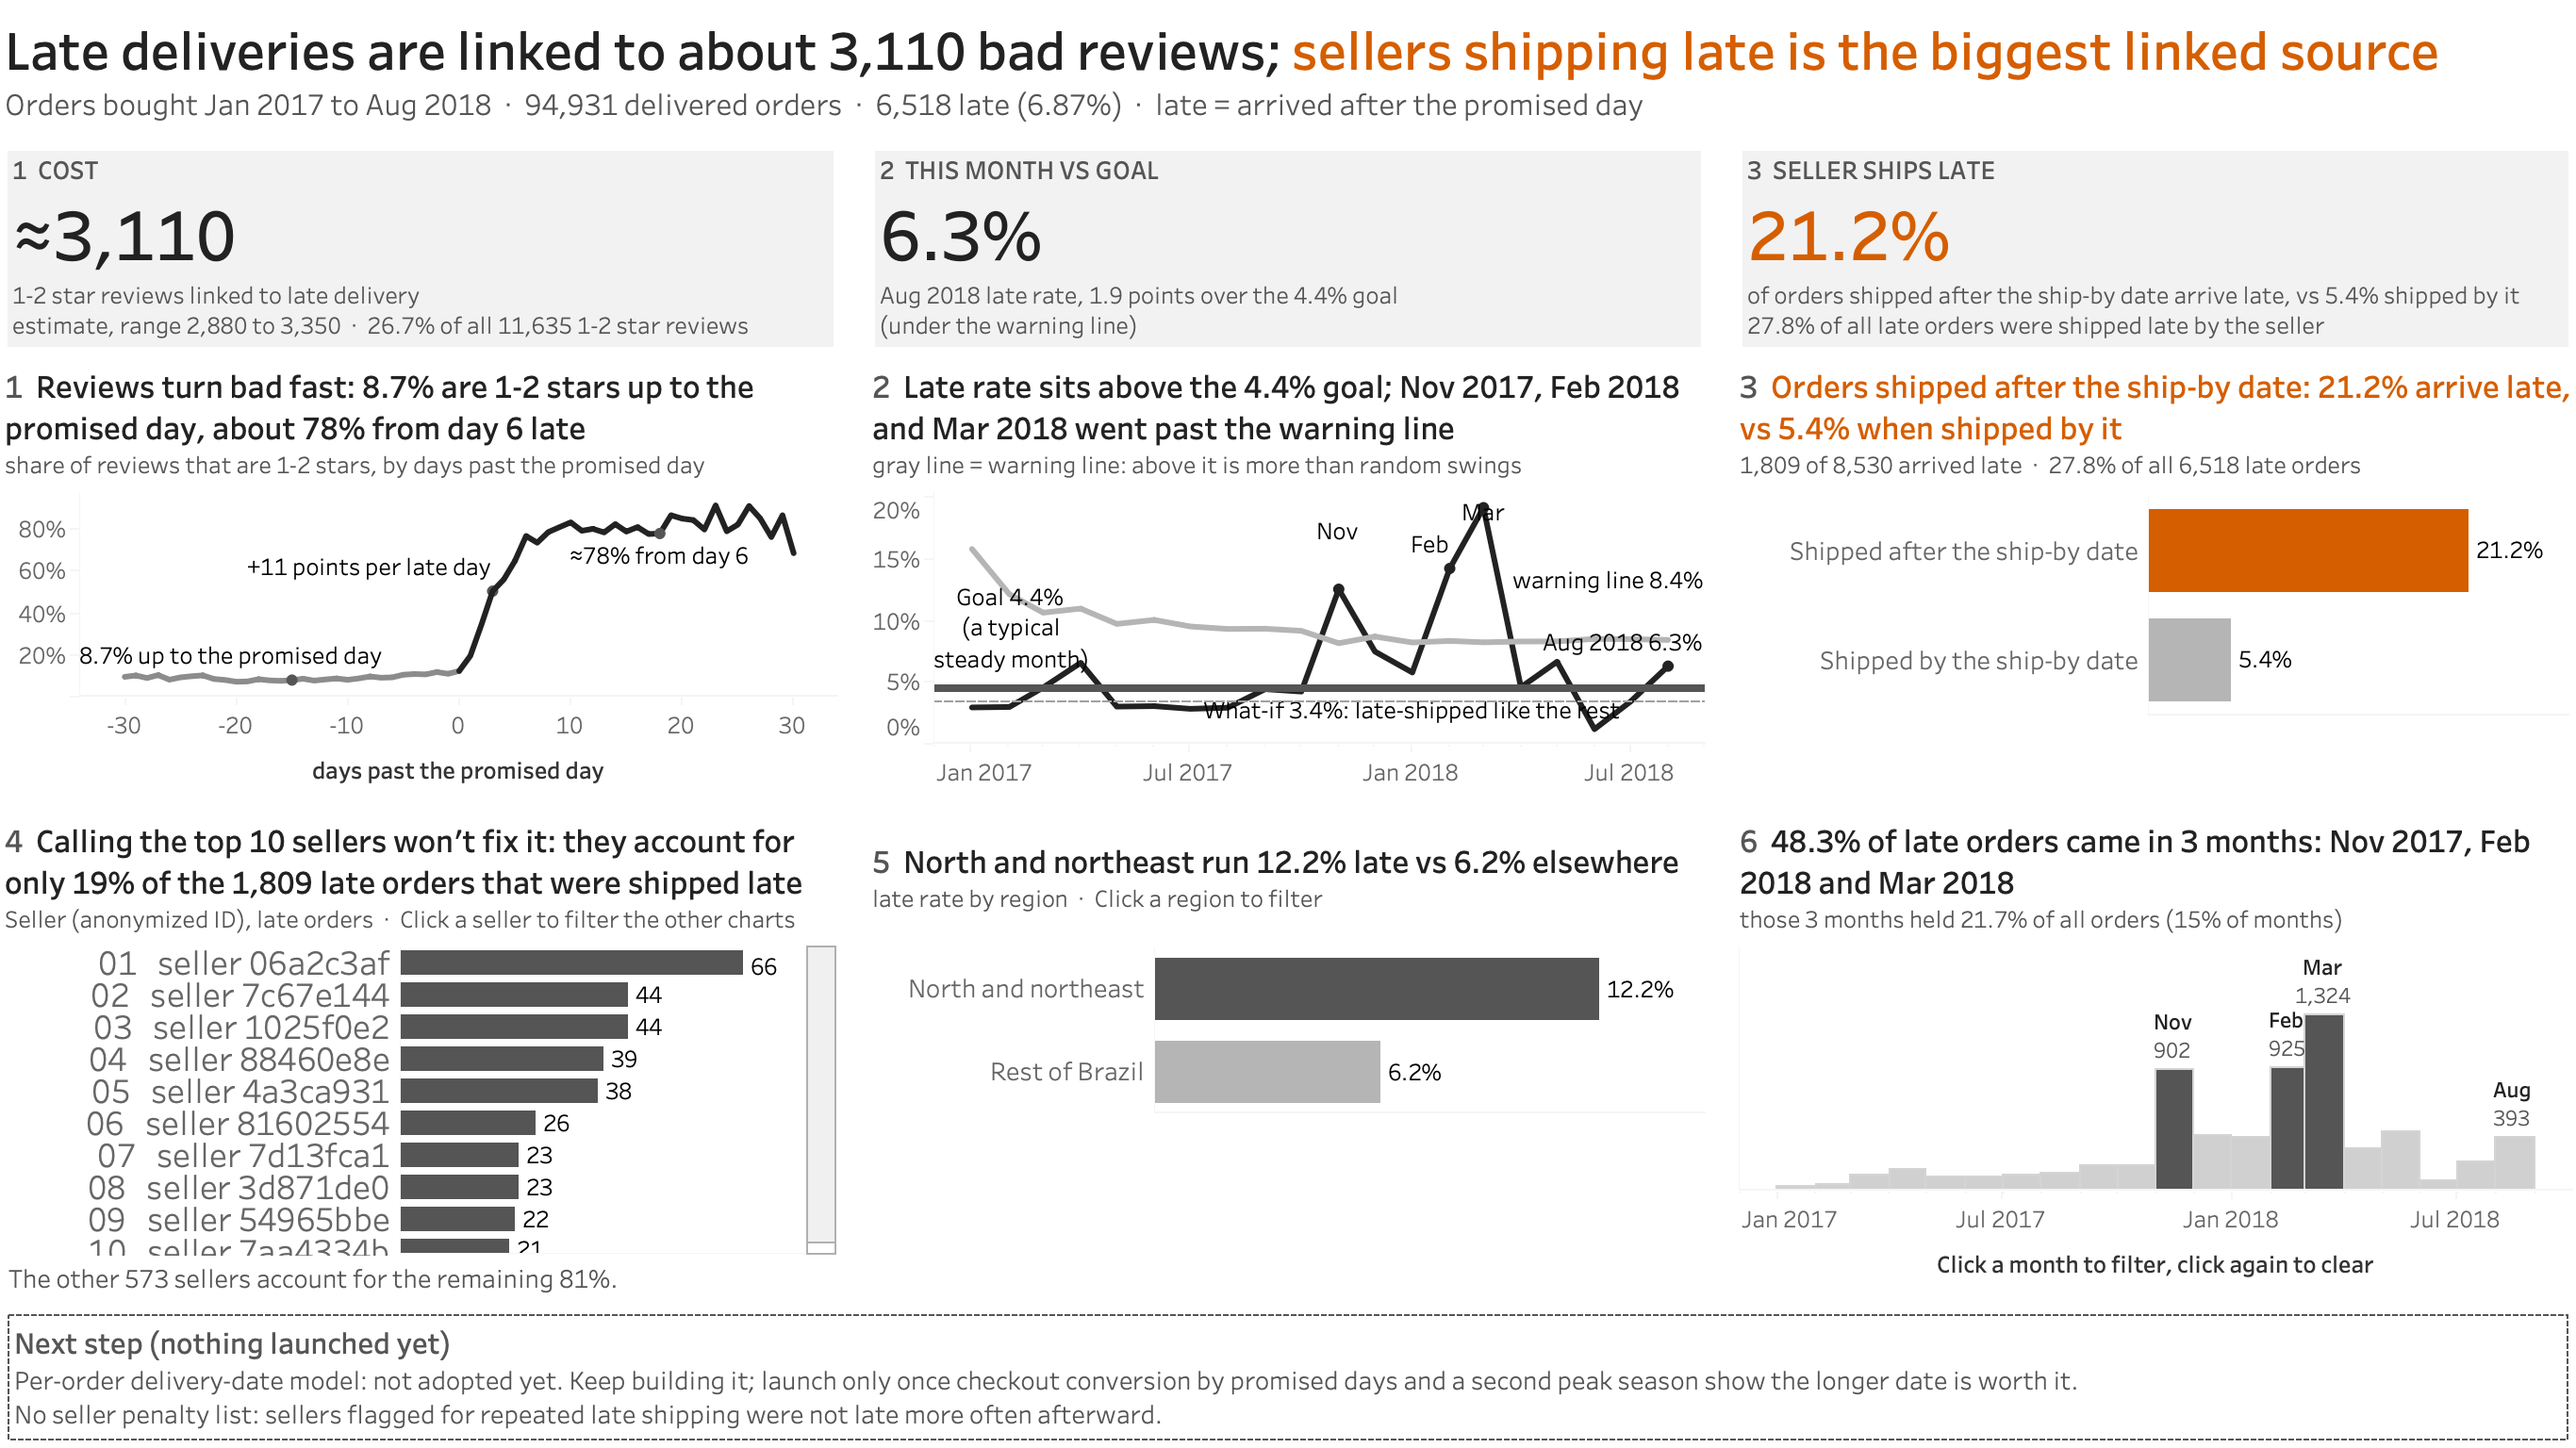
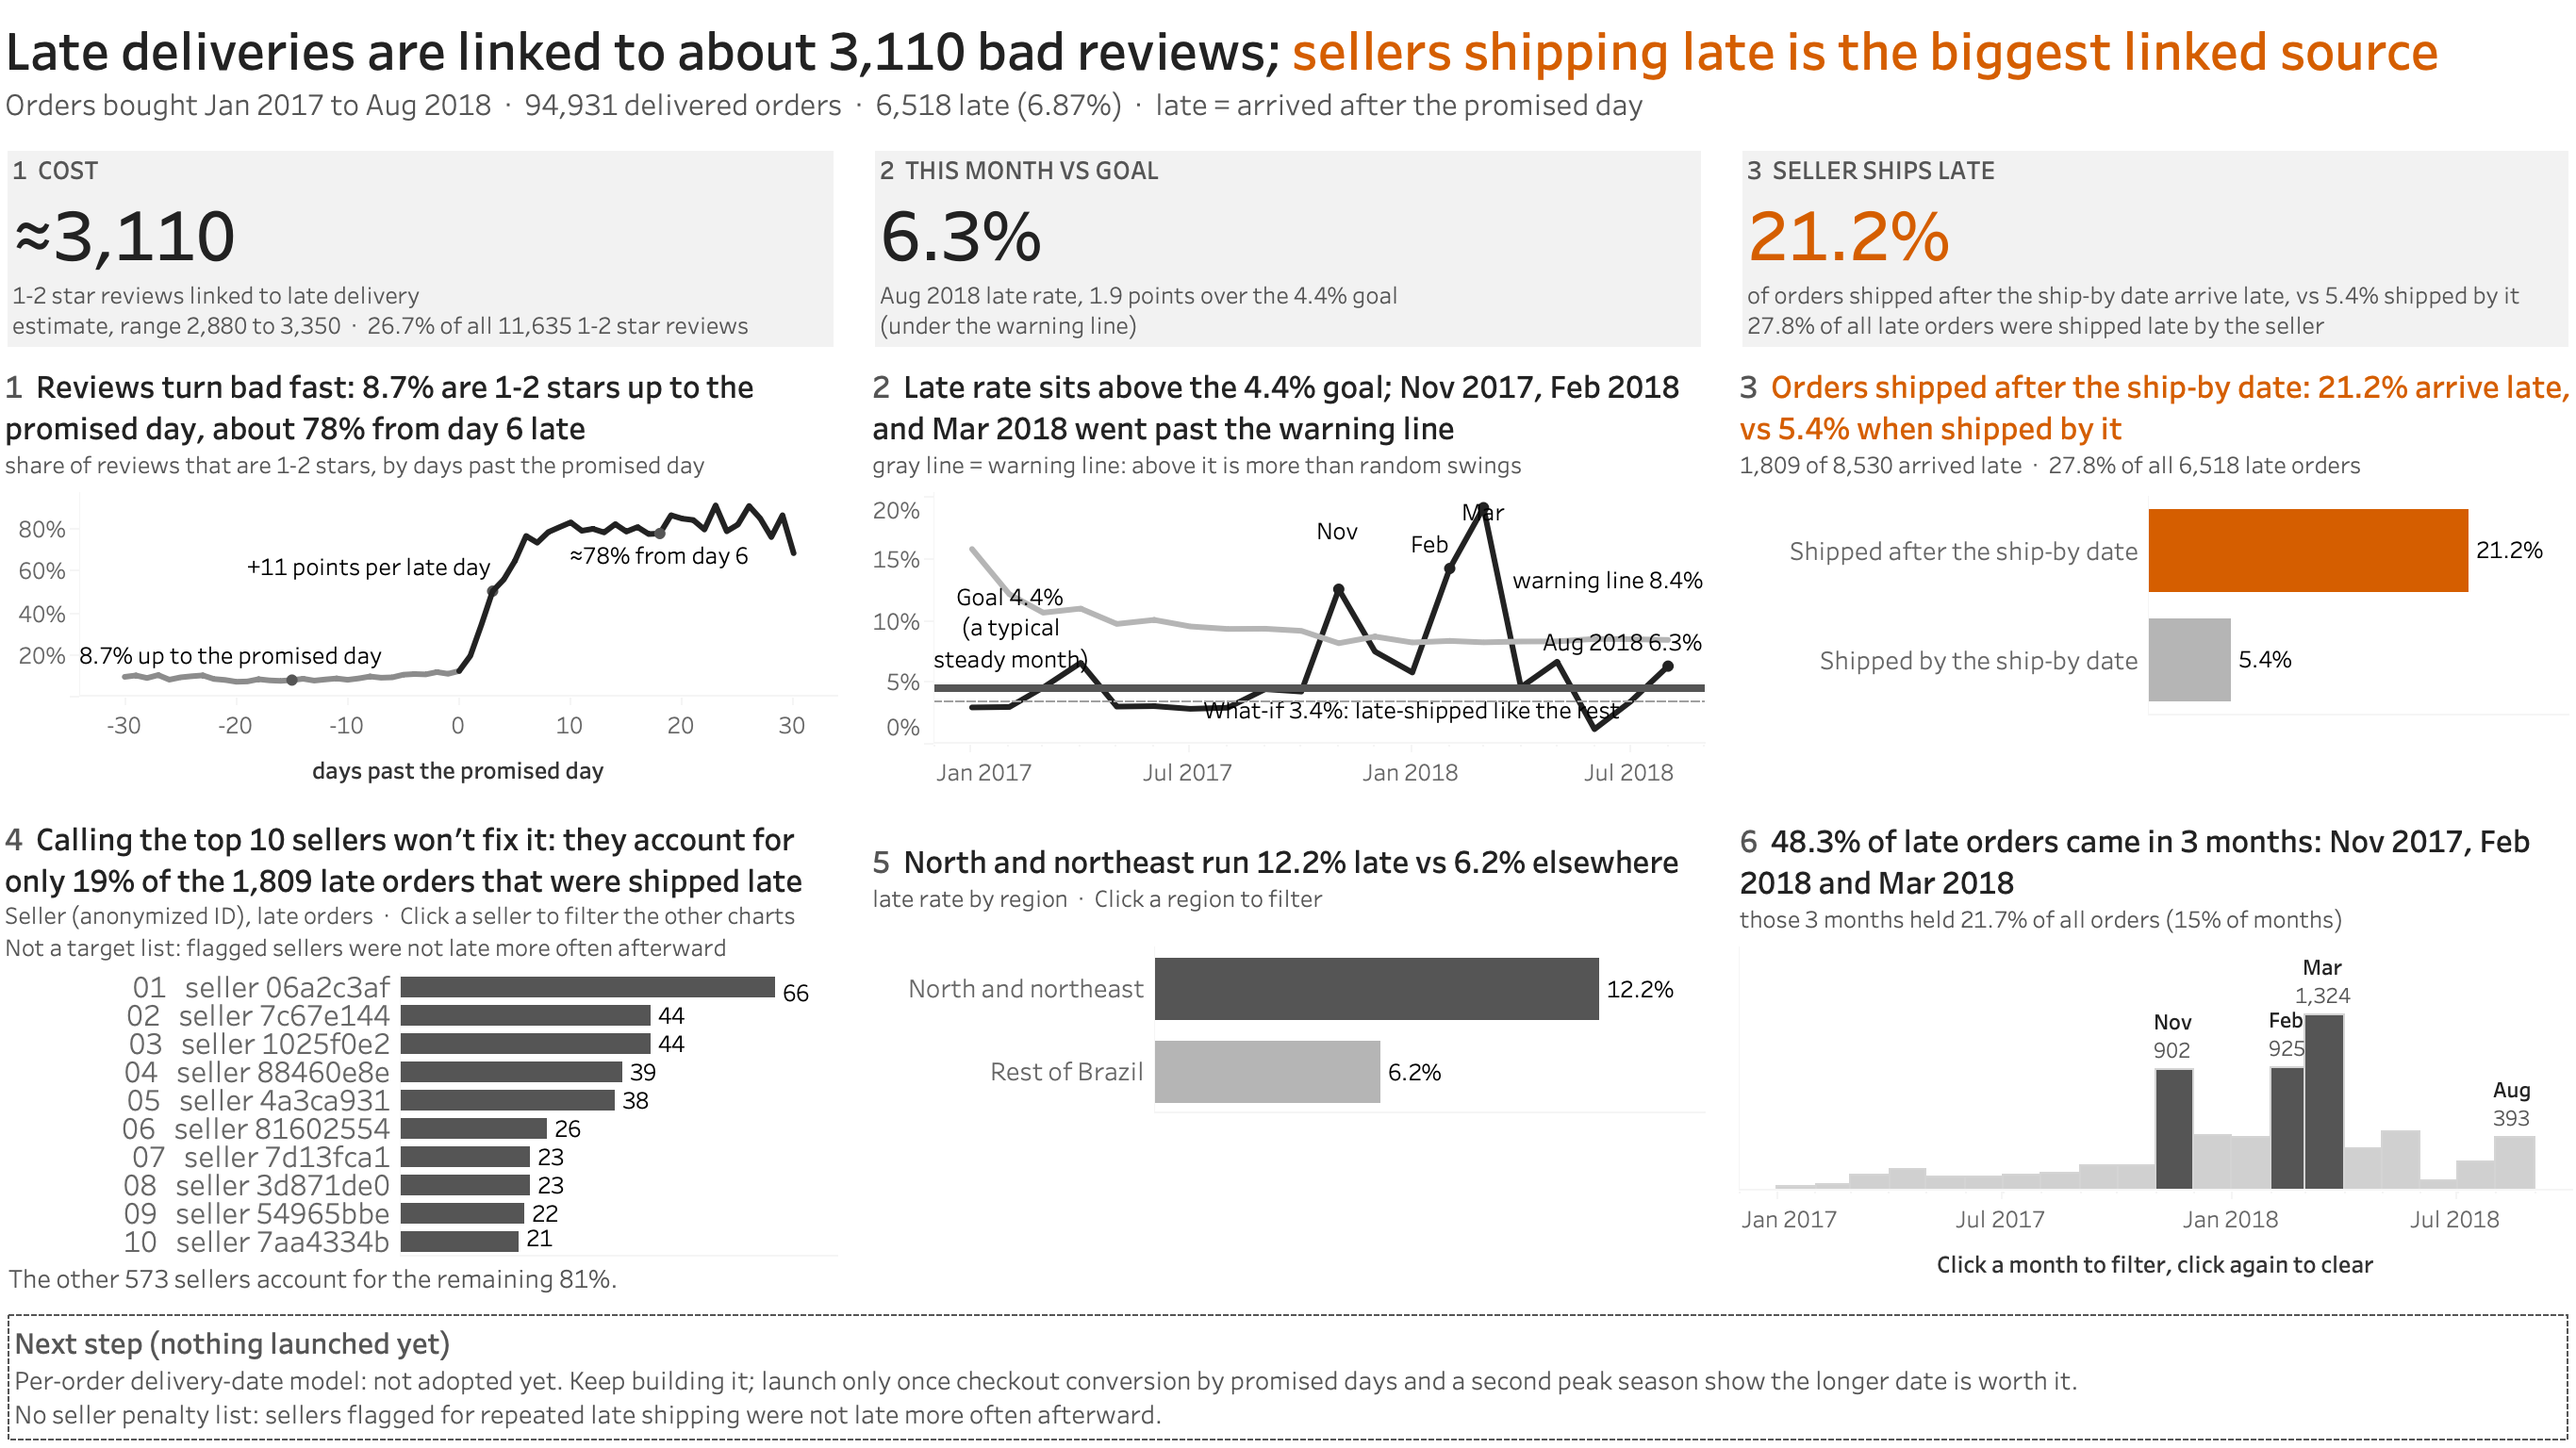
Re-export dashboard images with the reworded and added seller notes
- v4_six_chart.png, docs/img/dashboard.png and B1_v2.png re-exported from Tableau Desktop from the
  current workbooks.
- B1: seller rows 15 px (font 11) so the one-line note fits and all 10 seller rows show (the 10th
  was cut off before).
- Tableau README: the note that the images still needed an export is removed; the 10th-row issue
  is dropped from the remaining B1 problems.

Changed region(s): [[0.0, 0.5625, 0.3111, 0.875]]

diff --git a/dashboard/tableau/gen_workbook.py b/dashboard/tableau/gen_workbook.py
@@ -339,7 +339,7 @@ ows('Handoff',ORD,[('has_handoff','nk')],mark='Bar',rows=ORD.q('handoff_group','
     tip=['Orders: ',('order_code','cnt'),'\nLate orders: ',('late_n','sum'),'\nLate rate: ',('late','avg')])
 # ---- 4 who: sellers (top 10 overall)
 ows('Sellers',ORD,[('is_top10','nk')],mark='Bar',rows=ORD.q('seller_label','nk'),cols=ORD.q('lalh_n','sum'),text=('lalh_n','sum'),pane_color=MID,
-    hide_axes=[('lalh_n','sum')],extra_uses=[('lalh_n','sum'),('seller_label','nk')],filt=fmember(ORD,'is_top10','true'),header_w=(('seller_label','nk'),210),header_font=(13,'bold'),cell_rules=[('cell','height',17,ORD.q('seller_label','nk'))],
+    hide_axes=[('lalh_n','sum')],extra_uses=[('lalh_n','sum'),('seller_label','nk')],filt=fmember(ORD,'is_top10','true'),header_w=(('seller_label','nk'),210),header_font=(11,'bold'),cell_rules=[('cell','height',15,ORD.q('seller_label','nk'))],
     tip=['Orders: ',('order_code','cnt'),'\nOrders shipped late: ',('late_handoff_n','sum'),'\nLate orders that were shipped late: ',('lalh_n','sum'),'\nLate orders (all): ',('late_n','sum'),'\nLate rate: ',('late','avg')])
 # ---- 5 where / when
 ows('Region',ORD,None,mark='Bar',rows=ORD.q('region_group','nk'),cols=ORD.q('late','avg'),color=('region_group','nk'),text=('late','avg'),
@@ -408,7 +408,7 @@ Z+=title('3','Orders shipped after the ship-by date: %s arrive late, vs %s when 
 Z+=zone_sheet('Handoff',CX[2],r1c,CW,r1h,zstyle(margin=4))
 N_SELL=int(round(F('sellers_with_late_after_late_handoff')))
 CLOSE_H=2.6
-T4=3.4   # room for the note line under the seller panel title (two lines if it wraps)
+T4=1.8   # room for the one-line note under the seller panel title; seller rows are 15 px so all 10 fit
 Z+=title('4',"Calling the top 10 sellers won't fix it: they account for only %s of the %s late orders that were shipped late"%(p0(F('top10_share_of_late_after_late_handoff')),n0(F('late_handoff_late_orders'))),'Seller (anonymized ID), late orders  ·  Click a seller to filter the other charts\nNot a target list: flagged sellers were not late more often afterward',CX[0],r2T,CW,TH+T4)
 Z+=zone_sheet('Sellers',CX[0],r2c+T4,CW,r2h-CLOSE_H-T4,zstyle(margin=2))
 Z+=ztxt([('The other %d sellers account for the remaining %s.'%(N_SELL-10,p0(1-F('top10_share_of_late_after_late_handoff'))),10,False,MID)],CX[0],r2c+r2h-CLOSE_H,CW,CLOSE_H,zstyle(margin=2))

diff --git a/dashboard/tableau/README.md b/dashboard/tableau/README.md
@@ -131,18 +131,17 @@ Both workbooks and both images were regenerated with the commands above and expo
 
 - Bottom strip: the old "Two fixes to test next" (seller ship-by reminders, buffer days) is replaced by the case study's recommendation, on three lines so nothing is cut off. The rows above it are 1.5 points shorter.
 - Title: "biggest linked source" (was "biggest fixable cause", then "biggest linked source of lateness", which did not fit on one line).
-- Sellers panel notes: the six-chart page says "Not a target list: sellers flagged this way were not late more often afterward"; B1 says "Not a target list: flagged sellers were not late more often afterward" under its top-10 title.
+- Sellers panel notes: the six-chart page says "Not a target list: sellers flagged this way were not late more often afterward"; B1 says "Not a target list: flagged sellers were not late more often afterward" under its top-10 title. To make room, B1's seller rows are 15 px (font 11), and all 10 rows now show; before, the 10th was cut off.
 - Review ramp: the line no longer breaks between day 0 and 1 and between day 5 and 6 (`prep.py` repeats the last point of each phase as the first point of the next).
 - Six-chart months chart: the Feb 2018 count (925) is padded left so it no longer touches the Mar 2018 bar (`prep4.py` `tag_pad`).
 - `numbers_check_v4.py` now also checks the header, tile 1, panel 1, 3 and 6 numbers, the ramp labels and bridge rows, the strip and the panel note, and fails if the retired strip wording is in either workbook. It also checks the B1 strip and note: 114 checks, 0 mismatches. On the workbooks before this rebuild it reports 6 mismatches.
 
-**Images not yet re-exported for the panel notes.** `v4_six_chart.png`, `B1_v2.png` and `docs/img/dashboard.png` were exported before the panel notes above were reworded (six-chart) and added (B1). The six-chart image still shows the earlier note, "these sellers were not late more often afterward", and B1 shows no note. The workbooks are current; the images need one more export from Tableau Desktop.
 
 The click tests above were not re-run for this rebuild; the filters, actions and data are unchanged.
 
 ### Not cleanly fixed
 
 - Month and count labels on the months chart are positioned with padding characters, because Tableau offers no per-label offset. On the six-chart page the "Feb 2018" name and count now clear the Mar 2018 bar.
-- B1 (`B1_v2.png`) still has these older layout problems, not fixed in this rebuild: in panel 2 the "Mar" label is clipped at the top, and the what-if, goal and "Aug 2018" labels are crossed by lines; in panel 4 the 10th seller row is cut off; in panel 6 the Feb count (925) touches the Mar 2018 bar. The six-chart page is the one the case study shows.
+- B1 (`B1_v2.png`) still has these older layout problems, not fixed in this rebuild: in panel 2 the "Mar" label is clipped at the top, and the what-if, goal and "Aug 2018" labels are crossed by lines; in panel 6 the Feb count (925) touches the Mar 2018 bar. The six-chart page is the one the case study shows.
 - The label placement is set by hand for this data window (Jan 2017 to Aug 2018); other data would need the padding and fixed axis range revisited.
 - Dual-axis circle marks for the dots were tried and abandoned: Tableau did not accept a hand-written dual axis, so the dots are centred text marks.
